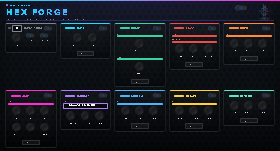
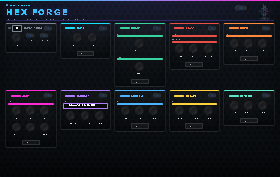
Hex Forge: increase container height so amp More button clears the edge
Container 700 -> 820px; the tall bottom-row amp tile + its More button now sit
inside the frame with margin.

diff --git a/lv2/modgui-hexforge/stylesheet-hexforge.css b/lv2/modgui-hexforge/stylesheet-hexforge.css
@@ -14,7 +14,7 @@
     background-position: center top, center top, center top;
     background-size: 28px 49px, 100% 100%, 100% 100%;
     width: 1300px;
-    height: 700px;
+    height: 820px;
     position: absolute;
     border-radius: 16px;
     border-top: 2px solid transparent;

diff --git a/build-tools/render_hexforge.py b/build-tools/render_hexforge.py
@@ -9,7 +9,7 @@ BASE = os.path.join(REPO, "lv2", "modgui-hexforge")
 OUT  = os.path.join(os.environ["TEMP"], "hxthumb")
 os.makedirs(OUT, exist_ok=True)
 CHROME = r"C:\Program Files\Google\Chrome\Application\chrome.exe"
-W, H = 1300, 700
+W, H = 1300, 820
 # Conditional classes hidden in the default selection (amp=Crunchy, PA Auto on,
 # fuzz=Italian Hero, drive=Green Man, delay=Digital) — mirror script-hexforge.js
 # so the static screenshot reflects the real default view.
